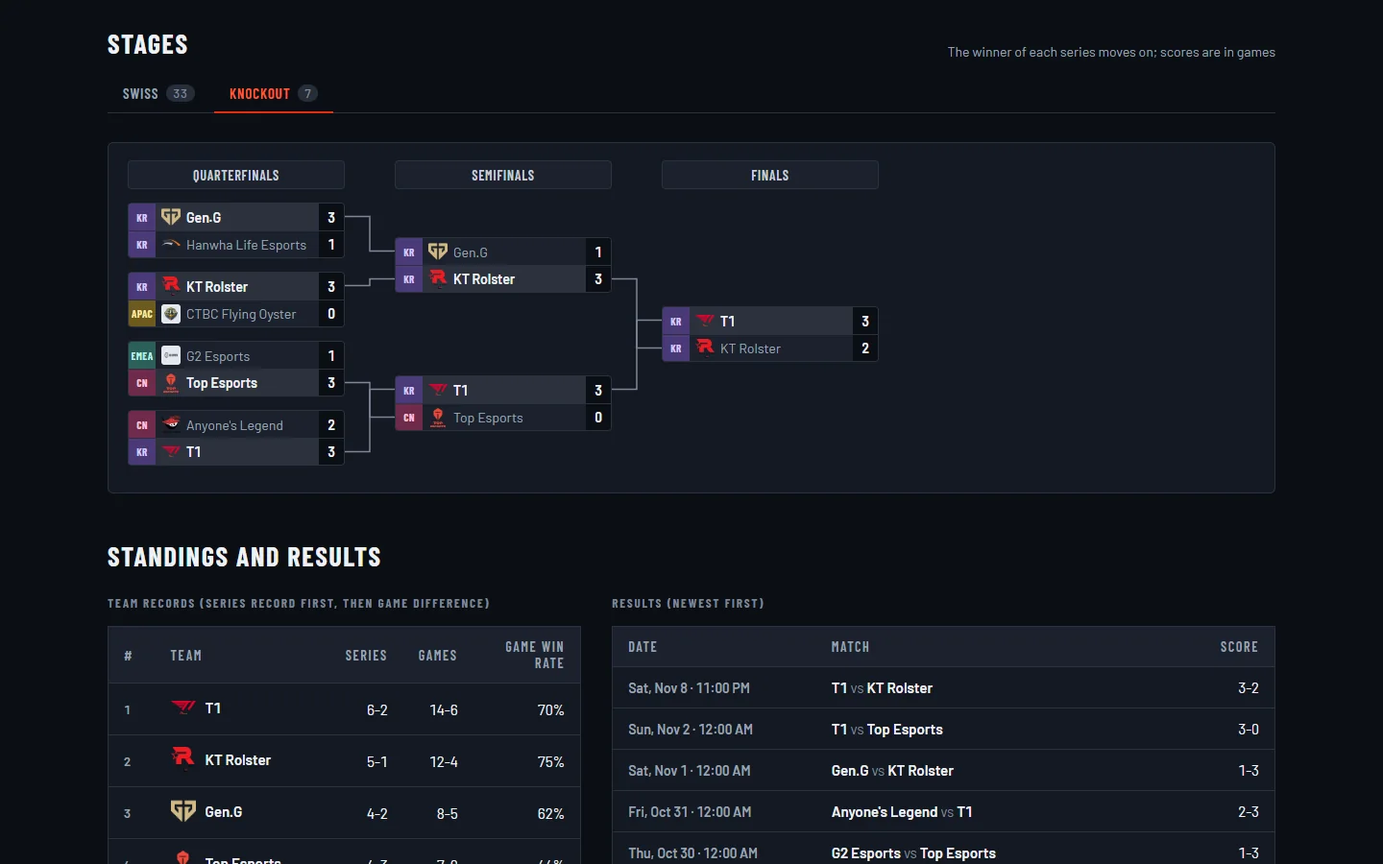
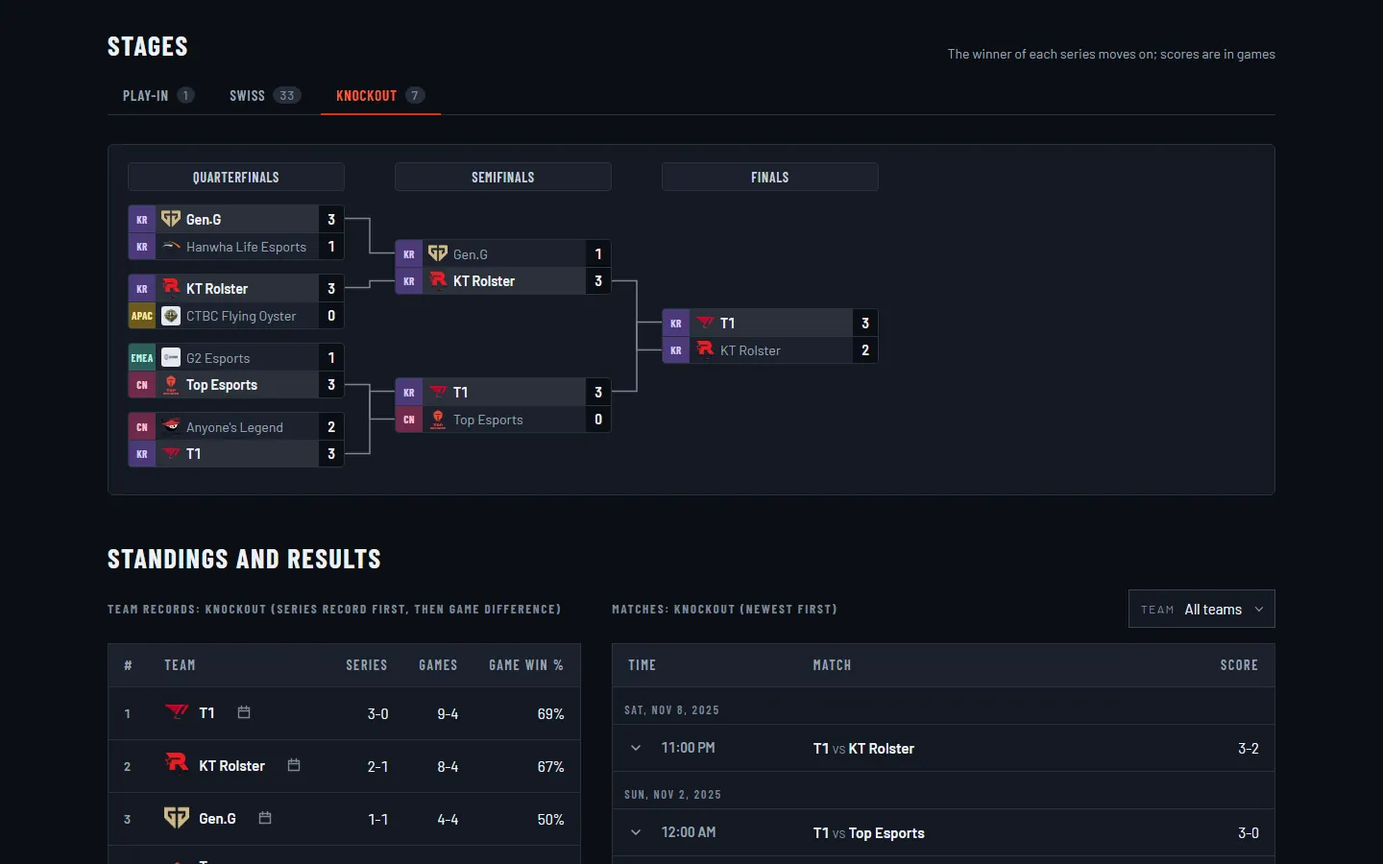
Update the README and its screenshots to match the site
Fix what had drifted: upcoming events are stored before their first game, tournament
ids are slugs, the recent-tournaments and list rules, the new champion endpoints and
the other undocumented ones, the sync commands (rosters, the 14-day look-ahead), the
roadmap, the project layout, the testing commands, the branch workflow and how
Dependabot pull requests are handled. Retake the four screenshots from the live site
(five header tabs, current data).

diff --git a/README.md b/README.md
@@ -77,7 +77,7 @@ A visitor's browser only ever talks to the frontend, the API and the image bucke
 |---|---|
 | `frontend/` | React + Vite + TypeScript UI |
 | `api/` | Express + TypeScript API, SQL migrations, vitest suite |
-| `sync/` | Python loader (`backfill` mode implemented; `nightly` loads only new data) |
+| `sync/` | Python loader and CLI: `backfill`, `nightly`, `schedule`, `rosters`, `results` and the image commands |
 | `docker-compose.yml` | Local Postgres 16 for development |
 
 Design decisions worth knowing:
@@ -148,17 +148,17 @@ python main.py backfill --latest                                   # most recent
 python main.py backfill --tournament "LCK/2026 Season/Rounds 3-4"  # a specific Leaguepedia page
 python main.py backfill --all --force                              # re-sync even if already done
 python main.py logo-tones                                          # measure which team logos are too dark for the dark panels (they are then shown on a light plate)
-python main.py schedule                                           # refresh every series' date and round (the bracket and stage tabs are built from these); --tournament PAGE limits it to one event
+python main.py schedule                                            # refresh every series' date and round (the bracket and stage tabs are built from these), without reloading games; --tournament PAGE limits it to one event
+python main.py rosters                                             # every player's team history (a few minutes); --since 2026-09-01 only players with a roster change from that date on
 python main.py art                                                 # cache the Legends of Runeterra card art as small WebP files under frontend/public/img/art (about 12 MB; run once)
 python main.py upload-images --from ../frontend/public/img        # put the cached art (and any new logos and photos) on R2; the site falls back to Riot's CDN for anything missing
 python main.py results                                             # fetch final placements (1st, 3rd-4th, ...) for every event
-python main.py schedule                                            # refresh match dates (series.scheduled_at) without reloading games
-python main.py nightly                                             # only what is new: unfinished tournaments, match dates, champion icons (about 30 seconds)
+python main.py nightly                                             # only what is new: unfinished and upcoming tournaments, match dates, placements, team history, champion icons (about 30 seconds)
 python main.py images                                              # cache team logos and player photos, and record champion icon keys
 python main.py images --only teams --limit 20                      # a quick trial
 ```
 
-**Nightly update.** `python main.py nightly` skips every tournament already marked `done`, loads new and still-running ones (a reload is idempotent), refreshes match dates for the last 14 days, and refreshes champion icon keys. It also refreshes final placements (from Leaguepedia's `TournamentResults`) for events that ended in the last 45 days or have none yet; the recent-events panels on player and team pages show them in place of "Completed". It exits non-zero if a tournament failed, so a scheduler can flag it; run it again to retry. It deliberately leaves team logos and player photos out, because they are files and a scheduled runner has no permanent disk (they need somewhere to live in production; see the roadmap). `.github/workflows/nightly-sync.yml` runs it on GitHub Actions; it runs every day at 12:00 UTC (and on demand from the Actions tab) using the seven repository secrets it lists; `python sync/set_github_secrets.py` sets them from `.env`.
+**Nightly update.** `python main.py nightly` skips every tournament already marked `done`, loads new and still-running ones (a reload is idempotent), refreshes match dates for the last 14 days, and refreshes champion icon keys. It looks 14 days ahead too: a tournament that starts within that window is stored before its first game, with the series Leaguepedia has scheduled (slots whose teams are still TBD are not series), and is reloaded each night until it ends; a past event with no games, or one with no end date, is skipped. Players with a roster change in the last 30 days get their team history rebuilt (`python main.py rosters` pulls everyone). It also refreshes final placements (from Leaguepedia's `TournamentResults`) for events that ended in the last 45 days or have none yet; the recent-events panels on player and team pages show them in place of "Completed". It exits non-zero if a tournament failed, so a scheduler can flag it; run it again to retry. It deliberately leaves team logos and player photos out, because they are files and a scheduled runner has no permanent disk (they need somewhere to live in production; see the roadmap). `.github/workflows/nightly-sync.yml` runs it on GitHub Actions; it runs every day at 12:00 UTC (and on demand from the Actions tab) using the seven repository secrets it lists; `python sync/set_github_secrets.py` sets them from `.env`.
 
 A full run takes a few hours (roughly 10-20 seconds per tournament with the bot login). It writes a log to `sync/logs/` (gitignored), continues past individual failures, and picks up where it left off if you run it again.
 
@@ -200,6 +200,8 @@ All player stat endpoints accept the filters `league`, `year`, `split`, `tournam
 | `GET /api/players/:id/matchups/champions` | Record and average gold difference against the champion the lane opponent played. |
 | `GET /api/players/:id/target-bans` | Champions the player has played that opponents banned, with the share of games. |
 | `GET /api/players/:id/context` | The related-info strip on the player page: current (or last) team and its roster, running events, upcoming series and recent results. Ignores the stat filters. |
+| `GET /api/players/:id/accomplishments` | The player's international record: for Worlds, MSI and First Stand, the events they played in and their best finish (null while no placement is known). Ignores the stat filters. |
+| `GET /api/players/:id/team-history` | The teams the player has been on and when, newest first, each with the region, their first in-game role and a link to our team page where we hold games. Ignores the stat filters. |
 | `GET /api/teams/:id` | Team profile (`:id` is the exact team name or numeric id), resolved range and summary: record, side split, game length, kills and deaths per game, gold per minute and difference, objectives per game. Same filters as players except `role`. |
 | `GET /api/teams/:id/players` | Everyone who played for the team in the range, with their stats for this team only (entries under 5 games are flagged). |
 | `GET /api/teams/:id/draft` | Most picked champions with records, the team's own most frequent bans and the bans made against it (`limit`, default 8). |
@@ -211,18 +213,21 @@ All player stat endpoints accept the filters `league`, `year`, `split`, `tournam
 | `GET /api/champions/:name` | Champion profile and summary for the range: games, win rate, blue/red split, pick rate, ban rate and presence (shares of all games in the range), KDA, kill participation, damage/gold/CS per minute, game length, main role. Same filters as the leaderboard, including `role` and `qualifiers=true`. |
 | `GET /api/champions/:name/players`, `/teams`, `/matchups`, `/roles`, `/patches` | Top players and teams on the champion, record against each lane opponent's champion (with gold difference), results by role (ignores the role filter) and by patch with per-patch pick rate. `limit` applies to the first three (default 8). |
 | `GET /api/champions/:name/context` | The related-info strip on the champion page: top players, top teams and recent events. Ignores the stat filters. |
-| `GET /api/tournaments/:id` | One event (`:id` is the numeric id the search and home links use): league (or the leagues of a multi-league event), stage, status, dates, and a summary: games, series, teams, game length, blue-side win rate, kills per game, patches, and the leader (while running) or champion (finished playoffs and internationals). |
-| `GET /api/tournaments/:id/standings`, `/matches`, `/players`, `/champions` | Team records (series first, then game difference), results newest first plus upcoming scheduled series, soonest first (`limit`, 1-200, caps both lists; without it, 30 results and 5 upcoming), top players by KDA (minimum 5 games, or everyone for very short events), and champion picks, bans and presence. |
+| `GET /api/tournaments/:id` | One event (`:id` is its readable slug, such as `worlds-2025`, in any letter case, or an old numeric id; a play-in's id or old address gives its competition): league (or the leagues of a multi-league event), stage, status (`Upcoming`, `In progress` or `Completed`, from its dates), dates, and a summary: games, series, teams, game length, blue-side win rate, kills per game, patches, and the leader (while running), the champion (finished playoffs and internationals) or the team with the top record (other finished events and standalone play-ins). An event with no games has `empty: true` and no summary. |
+| `GET /api/tournaments/:id/standings`, `/matches`, `/players`, `/champions` | Team records (series first, then game difference), results newest first plus upcoming scheduled series, soonest first (`limit`, 1-200, caps both lists; without it, 30 results and 5 upcoming), top players by KDA (minimum 5 games, or everyone for very short events; `limit`, default 10), and every champion's picks, bans and presence, most present first (`limit`, 1-200, default 15). |
+| `GET /api/tournaments/:id/champions/:name` | One champion in the event (every tournament of it, a play-in included): picks, wins, bans, win rate (flagged `underMinSample` under 5 picks) and presence with the games it was present in, and the players who played it with games, record, win rate and KDA, most games first. `:name` is the champion name in any letter case. 404 for an unknown champion or event; a champion the event never used, or an event with no games, is `empty: true`. |
 | `GET /api/tournaments/:id/series/:seriesId` | One series and its games, each with the blue and red side: team, result, kills, bans in slot order and picks from Top to Support (champion, role, player, pick order, `null` when unknown). Game numbers are derived from `played_at`, because the data has none; a game without draft data has empty `bans` and `picks`. 404 for an unknown event or series, or a series of another event; 400 when `:seriesId` is not a positive integer. |
 | `GET /api/tournaments/:id/rosters` | Who played for each team in the event, its play-in included, taken from the games (a tournament has no roster list of its own). Teams come in standings order, then any the table doesn't list (a play-in's teams) by name. Each player appears once, under the role they played most, with their games for the team; players run Top to Support. |
 | `GET /api/tournaments/:id/stages` | The event's series grouped into stages (`playin`, `groups`, `swiss`, `knockout`) from the round each belongs to, derived on request and not stored. Each stage has rounds of series with both teams' scores and, in a knockout, a `lane` (`upper`, `lower` or `final`) and a `from` link on each team to the earlier series it came from and whether it won or lost there, so a bracket can be drawn. Swiss stages add every team's record and its result per round. An event with no round data returns `empty: true`. |
 | `GET /api/tournaments/:id/context` | The related-info strip on the tournament page: leading teams, upcoming and latest series, and the other events of the same league and year (or the other internationals). |
-| `GET /api/teams`, `/api/champions`, `/api/tournaments` | The list pages. All take `q` (name search), `dir`, `page` and `pageSize`, and a `sort` from a fixed set. **Teams** (`sort`: `winRate` default, `games`, `goldDiff`, `killsPerGame`, `towersPerGame`, `avgGameLengthSec`; minimum 5 games) use the leaderboard's default range and filters. **Champions** (`sort`: `presence` default, `games`, `winRate`, `pickRate`, `banRate`, `kda`) use the champion page's default range (the whole newest year across every league, internationals included) and the same filters, and rank rows under 5 games after the rest when sorting by win rate or KDA. **Tournaments** (`sort`: `date` or `name`) filter by `league` (or `INTL`), `year`, `stage` and `status`, and hide qualifiers unless `stage=Qualifier`. |
+| `GET /api/teams`, `/api/champions`, `/api/tournaments` | The list pages. All take `q` (name search), `dir`, `page` and `pageSize`, and a `sort` from a fixed set. **Teams** (`sort`: `winRate` default, `games`, `goldDiff`, `killsPerGame`, `towersPerGame`, `avgGameLengthSec`; minimum 5 games) use the leaderboard's default range and filters. **Champions** (`sort`: `presence` default, `games`, `winRate`, `pickRate`, `banRate`, `kda`) use the champion page's default range (the whole newest year across every league, internationals included) and the same filters, and rank rows under 5 games after the rest when sorting by win rate or KDA. **Tournaments** (`sort`: `date` or `name`) filter by `league` (or `INTL`), `year`, `stage` and `status` (`Upcoming`, `In progress` or `Completed`), and hide qualifiers unless `stage=Qualifier`. An event with no games is listed (and found by search) until it ends, so an upcoming event can be opened; a past event that never had a game stays hidden. |
 | `GET /api/assets/images` | Which champions, teams and players have an image: the Data Dragon version, champion name to icon key, team name to logo file and player page to photo file. Loaded once by the front end and cached for five minutes. |
 | `GET /api/search?q=` | Players (including old names), teams, champions and tournaments matching `q` (2+ characters), grouped by type, prefix matches first. `limit` per group (default 4). |
-| `GET /api/tournaments/recent` | The newest official events with games, qualifiers excluded. Each has a status (`In progress` while today is inside its dates) and a standing: the current leader while running, the champion for finished playoffs and internationals, otherwise the team with the best record. `limit` default 5. |
+| `GET /api/tournaments/recent` | The newest official events with games, newest start first. Domestic qualifiers and promotion series are left out; an international play-in is listed under its own name until its main event is loaded, then as part of the competition. Each has a status (`In progress` while today is inside its dates) and a standing: the current leader while running, the champion for finished playoffs and internationals, otherwise the team with the best record ("Top record"); no standing while a competition's main event has not decided a series. `limit` default 5. |
 | `GET /api/leaderboard/players` | Ranked players for the leaderboard page (see below). |
 | `GET /api/filters` | Available leagues, years, splits, patches. Years with only qualifier games are left out. |
+| `GET /api/filters/patches` | Patches that have games in the chosen `league`, `year` and `split` (each optional), so the patch filter offers only real choices. |
+| `GET /api/filters/champions` | Every champion's name, alphabetical, including champions no event used (the tournament page's champion dropdown). Cacheable for five minutes. |
 | `GET /api/meta/last-updated` | Timestamp of the last successful sync (shown in the footer). |
 
 **Default range:** with none of `league`/`year`/`split`/`tournament`/`patch` set, a player's page shows their most recent domestic split plus any international events from that split's start onward. `domestic=true` restricts it to the league's split only. Any explicit filter replaces the default range. `range=all` (with none of those filters) shows every game in the tracked leagues and internationals, labelled "All time"; `domestic=true` and `side` still apply, and any explicit filter overrides it. The player, team and champion pages, the teams list, the player leaderboard and the champions list support it. Over all history the leaderboard and the champions list take about 1 s, so their all-time results are kept in memory (up to 200 entries, at most an hour, dropped when the nightly sync stamps `meta.last_synced_at`; the champions list keeps its database rows per filter set and sorts, searches and pages them on every request), and only the first all-time request after a sync or a restart pays the query.
@@ -293,7 +298,7 @@ What is in place:
 - **The API is hardened:** per-IP rate limiting (429 with a JSON message), no `X-Powered-By`, errors that never include internals, and `CORS_ORIGIN` to restrict browser callers.
 - **The site sends security headers** (`frontend/public/_headers`): no framing, no sniffing, a strict referrer policy and and an enforced content security policy that lists exactly where scripts, styles, fonts, images and API calls may come from. If images or the API ever move to a custom domain, add it to `img-src` / `connect-src` there first. The frontend uses no `innerHTML` or `eval`. The one third-party script allowed is Cloudflare Web Analytics (see below).
 - **Analytics** are Cloudflare Web Analytics only: it sets no cookies and keeps no personal profile, so there is no consent banner. Cloudflare Pages injects its beacon (`static.cloudflareinsights.com`), which reports to `cloudflareinsights.com`; both are the only analytics hosts in the content security policy. No Google Analytics or session-recording tools.
-- **Dependencies:** `npm audit` (api and frontend) and `pip-audit` (sync) report no known vulnerabilities as of the last review. Re-run them now and then. GitHub's Dependabot alerts watch the manifests, and `.github/dependabot.yml` opens a weekly, grouped update pull request per area against `dev`. To keep the commit history to the author alone, bump versions in your own commit rather than merging a bot's pull request.
+- **Dependencies:** `npm audit` (api and frontend) and `pip-audit` (sync) report no known vulnerabilities as of the last review. Re-run them now and then. GitHub's Dependabot alerts watch the manifests, and `.github/dependabot.yml` opens a weekly, grouped update pull request per area against `dev`. Read each one's release notes and wait for green checks before merging it into `dev` (with a merge commit), and do not batch-merge major version bumps. Merged Dependabot pull requests keep the bot as author, so `dependabot[bot]` appears in GitHub's contributors list; that is expected. Security-update pull requests are the exception to `dev`: GitHub aims those at `main`, so they are better applied as a lockfile update through `dev` and the pull request closed.
 - **CI permissions** are read-only for both workflows, and the nightly workflow stops with a clear message if a secret is missing.
 
 If a secret ever leaks (shows up in a commit, a log or a screenshot), treat it as burned: rotate it at the source (reset the Neon password, create a new R2 token, change the bot password), update `.env`, run `python sync/set_github_secrets.py` and update Render, and only then clean the history. Rewriting history does not un-leak a secret that was ever pushed.
@@ -303,37 +308,49 @@ No personal email address is in the code or in new commits: the sync's `User-Age
 ## Branches and releases
 
 - **`main` is production.** Cloudflare Pages deploys the site from it, Render deploys the API from it, and the nightly sync runs from it. Only merge to `main` what has been checked on `dev`.
-- **`dev` is where work is collected.** Small changes can be committed to it directly; larger ones start on a branch (`feature/compare-players`, `fix/search-clip`) and are merged into `dev` with a pull request.
-- **Previews.** Cloudflare Pages builds every non-production branch as a preview, at `https://<branch>.oracle-lens.pages.dev` (`https://dev.oracle-lens.pages.dev` for `dev`). Two settings make a preview work: the same `VITE_API_BASE`, `VITE_IMAGE_BASE` and `NODE_VERSION` variables under the project's Preview environment, and the preview address in Render's `CORS_ORIGIN`. A preview calls the production API, which is read-only, so previewing is safe.
-- **Releasing** is a pull request from `dev` into `main` (merge it with a merge commit, so `dev` and `main` don't drift apart). After it deploys, check the live site.
-- **Checks.** The [secret scan](#security) runs on every push to every branch. The CI workflow (`.github/workflows/ci.yml`) runs the API tests and type check, the sync tests, and the frontend type check and build on every pull request and on every push to `main` and `dev`. It uses a throwaway Postgres container and no secrets. Wait for green checks before merging; running the commands under [Testing](#testing) first saves a round trip.
+- **`dev` is where work is collected.** Every change starts on a branch cut from `dev` (`feat/...`, `fix/...`, `chore/...`) and is merged into `dev` with a pull request and a merge commit, not committed to `dev` directly. One logical change per commit, each leaving the tests passing.
+- **Previews.** Cloudflare Pages builds every non-production branch as a preview, at `https://<branch>.oracle-lens.pages.dev`. A preview can show the page shell but not data: the API's `CORS_ORIGIN` allows only the production address, so previews cannot call it. To make them work, put the same `VITE_API_BASE`, `VITE_IMAGE_BASE` and `NODE_VERSION` variables under the project's Preview environment and add the preview address to Render's `CORS_ORIGIN` (the production API is read-only, so previewing against it is safe). Until then, check UI changes locally and then on the live site after the release.
+- **Releasing** is a pull request from `dev` into `main` (merge it with a merge commit, so `dev` and `main` don't drift apart). Read the check results first; after it deploys, check the live site and the API.
+- **Checks.** The [secret scan](#security) runs on every push to every branch. The CI workflow (`.github/workflows/ci.yml`) runs the API tests and type check, the sync tests, and the frontend Functions tests, type check and build on every pull request and on every push to `main` and `dev`. It uses a throwaway Postgres container and no secrets. Wait for green checks before merging; running the commands under [Testing](#testing) first saves a round trip.
 
 ## Testing
 
 ```bash
 cd api && npm test              # vitest + supertest
 cd api && npm run typecheck
+cd frontend && npm run build              # type check (tsc) and production build
+cd frontend && npm run test:functions     # the Cloudflare Pages Functions (sitemap.xml, robots.txt)
 cd sync && python -m pytest
 python scripts/scan_secrets.py --history   # no secrets in any tracked file or commit
 ```
 
-API tests run against a separate `lolstats_test` database on the same Postgres server. It is dropped, recreated, and migrated on every run, and never touches your dev data.
+API tests run against a separate `lolstats_test` database on the same Postgres server, so Postgres must be running (`docker compose up -d`). It is dropped, recreated, and migrated on every run, and never touches your dev data. Run one API test run at a time: they share that database.
+
+The frontend has no component or unit tests: pages are checked in the browser (console, interactions, and layout at 375, 822 and 1280 px) together with `npm run build`.
 
 ## Project layout
 
 ```
 api/
   migrations/     numbered SQL migrations (plain SQL, no ORM)
-  src/            app, filters, player queries, migration runner
+  src/            app.ts (every route), one query module per entity (player, team, champion, tournament,
+                  compare, region, leaderboard, list, home), range and filter resolution, response cache,
+                  stages, migration runner
   tests/          vitest suites and test-database setup
 frontend/
   src/api/        fetch hook and response types
-  src/components/ header/footer, filter bar, stat tiles, champion table
-  src/pages/      player page and placeholder routes
-  src/styles/     design tokens, layout, player page styles
+  src/components/ header and footer, filter bar and dock, pickers (team, champion, search), stat tables,
+                  stage backdrops, brackets, Versus hero and tape
+  src/lib/        pure helpers: formatting, sorting and filtering, bracket layout, page metadata and SEO text
+  src/pages/      home, leaderboard, the four lists, the detail pages and Versus
+  src/styles/     design tokens, layout and one stylesheet per area
   functions/      Cloudflare Pages Functions: /sitemap.xml and /robots.txt (with Node tests)
 sync/
-  lolsync/        client, normalizers, backfill
+  lolsync/        Leaguepedia client, normalizers, backfill, nightly, schedule, results, rosters, images
+  main.py         the CLI (backfill, nightly, schedule, rosters, results, images, art, upload-images)
+  prod.py         runs commands against production; read it before use
+  verify.py       read-only data health report
+  repair_names.py merge duplicate players and teams (dry run by default)
   league_aliases.yaml
   FIELDS.md
 scripts/
@@ -359,7 +376,10 @@ LICENSE             MIT license for the code
 9. ✅ Nightly sync: `nightly` command and workflow, scheduled daily, with an uptime monitor keeping the API awake
 10. ✅ Deployment: Neon, Render, Cloudflare Pages and R2 are live (see Deployment)
 11. ✅ Tournament stages and brackets (play-ins, groups, Swiss, single and double elimination)
-12. Ideas, roughly in order: compare two players or teams, head-to-head history, a patch and meta view, live and upcoming matches, a custom domain
+12. ✅ **Versus:** compare two players, two teams or two regions on one shared range, with the head-to-head record
+13. ✅ Upcoming tournaments: events are stored and listed before their first game, with their schedule, bracket and teams
+14. ✅ Tournament page champion lookup: a sortable table of every champion in the event and a dropdown for one champion's record and players
+15. Ideas, roughly in order: a patch and meta view, live matches, a sortable and filterable players table on the tournament page, a custom domain, a language switcher
 
 ## Scope decisions
 
@@ -367,14 +387,13 @@ LICENSE             MIT license for the code
 - **A play-in is part of its competition.** "Worlds 2025 Play-In" and "Worlds 2025 Main Event" are two tournament rows (two Leaguepedia pages, different stages), but they are one competition, shown as "Worlds 2025". The `event` view (migration 012) folds them together for everything that lists or opens events: the tournaments list, search, the home page, the sitemap and the event page itself. The event's dates run from the first play-in day to the end of the main event, its page has a Play-In tab, and its results, top players, champions and totals count both stages; the standings and the champion are the main event's alone. Opening a play-in's old address lands on the competition. Which tournament is a play-in of which comes from the Leaguepedia page names (`<x>/Play-In` belongs to `<x>/Main Event`, and the LCK's `Season Play-In` to its `Season Playoffs`), so a new Worlds or MSI joins up on its own; a play-in whose main event is not loaded yet stays an event of its own until it is. The games keep their own stage, so leaderboards and filters (which leave qualifiers out) do not change.
 - **Events have readable addresses**: `/tournaments/worlds-2025`, not `/tournaments/587`. The slug is the name in lower case with other characters turned into hyphens, derived by the `event_slug` view (migration 013) rather than stored, so the sync has nothing to maintain. If two events would share a slug, the earlier keeps it and the later gets `-<id>` added, and a name that is only digits gets `event-` in front, so a slug is never mistaken for a number. The API takes a slug (any letter case) or an old numeric id, a play-in's id included, and the page moves to the slug, so every old link still works. Everything that links to an event (lists, search, the home page, the player, team and champion event lists, the sitemap) uses the slug.
 - **Detail pages show related info near the top.** Player, team, champion and tournament pages each carry a strip of linked context under the header (for a player: current team and roster, running events, schedule and results), and every entity in it links to its own page. The shared building blocks are in `frontend/src/components/LinkedInfo.tsx`.
-- **Filters are docked to the bottom of the viewport** on the player, team and leaderboard pages (`FilterDock`), so they stay reachable while scrolling the stats they control. The dock can be collapsed to a slim bar that still shows the range being viewed, and starts collapsed on phones.
+- **Filters are docked to the bottom of the viewport** on the player, team, champion and leaderboard pages, the teams, champions and tournaments lists, and Versus (`FilterDock`), so they stay reachable while scrolling the stats they control. The dock can be collapsed to a slim bar that still shows the range being viewed, and starts collapsed on phones.
 - **Images.** Champion icons load from Riot's Data Dragon CDN (a free public feed, no key needed; the sync records each champion's icon key and the current version). Team logos and player photos come from Leaguepedia's file store: `python main.py images` downloads each one once, shrinks it to a small WebP (logos 128px, photos 256px) and saves it under `frontend/public/img/`, so pages never load images from Fandom. That folder is gitignored (the images belong to their owners) and is regenerated by the command; set `VITE_IMAGE_BASE` to serve them from somewhere else in production. Every image has a fallback (a neutral box, or initials), because Leaguepedia has a logo for about 72% of our teams (93% of the teams active in the last year) but a photo for only about 13% of players (almost none of the active ones). The footer credits Leaguepedia and Riot and carries Riot's fan-site disclaimer.
 - Everything is rolled up under each league's current name (see [Sync](#sync)); pre-2025 PCS, VCS and LJL count as LCP, and from 2025 they are second-tier leagues that are not loaded.
 
 ## Known limitations
 
-- **Upcoming matches only exist for events we already hold.** An event is loaded once it has recorded games, so the schedule of an event that has not started yet (or a bracket slot whose teams are still TBD) is not shown until the sync sees it.
-
+- **Upcoming matches only show for events the sync has stored.** The nightly sync stores an event up to 14 days before it starts, with the series Leaguepedia has scheduled, so an event further out has no page yet, and a bracket slot whose teams are still TBD is not a series until the teams are known. An event with no end date is not stored until it has one.
 - **First blood is not available** in Leaguepedia's scoreboard tables, so `first_blood` is `NULL` and the stat shows "N/A".
 - **Draft order** for picks and bans is the slot within each team's picks or bans, not the true interleaved draft order.
 - Leagues outside the six tracked ones (and their predecessors) are not loaded: for example LMS, OPL, TCL, LLA, and Challengers leagues. Predecessors that are not listed in `league_aliases.yaml` are not included.
